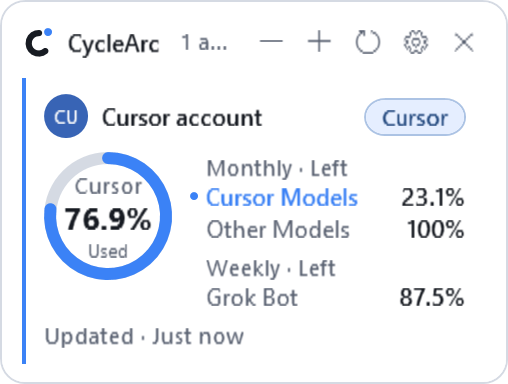
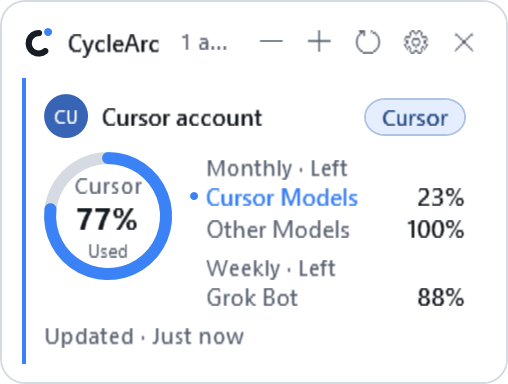
Round visible Cursor widget percentages to whole numbers

Changed region(s): [[0.1181, 0.5312, 0.2953, 0.625], [0.7972, 0.4688, 0.8858, 0.5625], [0.7677, 0.75, 0.8858, 0.8125]]

diff --git a/tests/CycleArc.Tests/CursorWidgetAccountModelTests.cs b/tests/CycleArc.Tests/CursorWidgetAccountModelTests.cs
@@ -164,6 +164,132 @@ public sealed class CursorWidgetAccountModelTests
         Assert.Same(budget, snapshot.DisplayWindow()); // Shared popup/tray policy is untouched.
     }
 
+    [Theory]
+    [InlineData(76.91, "77%", "23%", "76.91%", "23.09%")]
+    [InlineData(76.499, "76%", "24%", "76.5%", "23.5%")]
+    [InlineData(2.9, "3%", "97%", "2.9%", "97.1%")]
+    [InlineData(97.1, "97%", "3%", "97.1%", "2.9%")]
+    [InlineData(76.5, "77%", "24%", "76.5%", "23.5%")]
+    [InlineData(0.5, "1%", "100%", "0.5%", "99.5%")]
+    public void CursorWidgetPercentageTextRoundsOnlyTheVisibleStrings(
+        double usedPercent, string expectedRing, string expectedRemaining,
+        string rawRing, string rawRemaining)
+    {
+        var window = Window("cursor-auto", usedPercent, null, null, null, Now.AddDays(1));
+        var snapshot = Snapshot(window);
+        var model = WidgetAccountModel.From(Account(snapshot), selected: true, now: Now);
+        var period = Assert.Single(model.Periods);
+
+        Assert.Equal(expectedRing, model.RingValueText);
+        Assert.Equal(expectedRemaining, period.DisplayRemainingText);
+
+        // The existing presentation values remain the fractional source used by
+        // accessibility/detail surfaces, and the snapshot itself is untouched.
+        Assert.Equal(rawRing, model.Ring.CenterValueText);
+        Assert.Equal(rawRemaining, period.RemainingText);
+        Assert.Equal(usedPercent, snapshot.Windows[0].UsedPercent);
+    }
+
+    [Fact]
+    public void CursorWidgetRoundedHundredDoesNotChangeDangerOrUnderlyingPercent()
+    {
+        var window = Window("cursor-auto", 99.6, null, null, null, Now.AddDays(1));
+        var snapshot = Snapshot(window);
+        var model = WidgetAccountModel.From(Account(snapshot), selected: false, now: Now);
+        var period = Assert.Single(model.Periods);
+
+        Assert.Equal("100%", model.RingValueText);
+        Assert.Equal("99.6%", model.Ring.CenterValueText);
+        Assert.Equal(99.6, model.Ring.UsedPercent);
+        Assert.False(model.Ring.IsDangerLevel);
+        Assert.Equal("0%", period.DisplayRemainingText);
+        Assert.Equal("0.4%", period.RemainingText);
+        Assert.Equal(99.6, snapshot.Windows[0].UsedPercent);
+    }
+
+    [Fact]
+    public void CursorWidgetKeepsUnknownAmountsAndNonFinitePercentagesUnknown()
+    {
+        var unknown = WidgetAccountModel.From(
+            Account(Snapshot(Window("cursor-auto", null, null, null, null, null))),
+            selected: false, now: Now);
+        Assert.Equal("?", unknown.RingValueText);
+        Assert.Equal("?", Assert.Single(unknown.Periods).DisplayRemainingText);
+        Assert.Equal("?", unknown.Ring.CenterValueText);
+
+        var nonFinite = WidgetAccountModel.From(
+            Account(Snapshot(Window("cursor-auto", double.NaN, null, null, null, null))),
+            selected: false, now: Now);
+        Assert.Equal("?", nonFinite.RingValueText);
+        Assert.Equal("?", Assert.Single(nonFinite.Periods).DisplayRemainingText);
+        Assert.Equal("?", nonFinite.Ring.CenterValueText);
+    }
+
+    [Fact]
+    public void CursorWidgetKeepsMoneyAndUnlimitedRemainingTextUnchanged()
+    {
+        var money = Window("cursor-auto", 76.91, 50, 100, 23.09m, Now.AddDays(1));
+        var moneyModel = WidgetAccountModel.From(Account(Snapshot(money)), selected: false, now: Now);
+        var moneyPeriod = Assert.Single(moneyModel.Periods);
+        Assert.Equal("$23.09", moneyPeriod.RemainingText);
+        Assert.Equal("$23.09", moneyPeriod.DisplayRemainingText);
+
+        var unlimited = Window("cursor-auto", 76.91, null, null, null, Now.AddDays(1))
+            with { IsUnlimited = true };
+        var unlimitedModel = WidgetAccountModel.From(Account(Snapshot(unlimited)), selected: false, now: Now);
+        var unlimitedPeriod = Assert.Single(unlimitedModel.Periods);
+        Assert.Equal("Unlimited", unlimitedPeriod.RemainingText);
+        Assert.Equal("Unlimited", unlimitedPeriod.DisplayRemainingText);
+    }
+
+    [Fact]
+    public void CursorWidgetIntegerTextDoesNotRewriteTooltipOrPopupFractionalValues()
+    {
+        var window = Window("cursor-auto", 76.91, null, null, null, Now.AddDays(1));
+        var snapshot = Snapshot(window);
+        var model = WidgetAccountModel.From(Account(snapshot), selected: true, now: Now);
+
+        Assert.Equal("77%", model.RingValueText);
+        Assert.Equal("23%", Assert.Single(model.Periods).DisplayRemainingText);
+        Assert.Contains("23.09%", model.Tooltip, StringComparison.Ordinal);
+
+        var row = Assert.Single(CodexDisplayFormatting.Rows(snapshot, Now),
+            candidate => candidate.Label == CursorUsagePresentation.QuotaDisplayLabel(window.LimitId));
+        Assert.Equal("Remaining 23.09%", row.Value);
+        Assert.Equal("76.91%", model.Ring.CenterValueText);
+        Assert.Equal(76.91, snapshot.Windows[0].UsedPercent);
+    }
+
+    [Fact]
+    public void CursorDisplayPropertiesLeaveCodexAndClaudeWidgetTextUntouched()
+    {
+        var codexSnapshot = new CodexQuotaSnapshot(
+            CodexQuotaStatus.Available, "pro", Now, Now, null, null, null,
+            [new("five", 76.91, CodexWindowClassifier.FiveHourMinutes, Now.AddHours(1), CodexWindowKind.FiveHour)],
+            null)
+        {
+            Provider = UsageProviderId.Codex
+        };
+        var codexModel = WidgetAccountModel.From(
+            new CodexAccountView(new CodexAccountProfile("codex", "", "Codex")
+            {
+                Provider = UsageProviderId.Codex
+            }, codexSnapshot), selected: false, now: Now);
+        Assert.Equal(codexModel.Ring.CenterValueText, codexModel.RingValueText);
+        Assert.Equal(codexModel.Periods[0].RemainingText, codexModel.Periods[0].DisplayRemainingText);
+
+        var claudeSnapshot = codexSnapshot with { Provider = UsageProviderId.Claude };
+        var claudeModel = WidgetAccountModel.From(
+            new CodexAccountView(new CodexAccountProfile("claude", "", "Claude")
+            {
+                Provider = UsageProviderId.Claude
+            }, claudeSnapshot), selected: false, now: Now);
+        Assert.Equal("76.91%", claudeModel.Ring.CenterValueText);
+        Assert.Equal("76.91%", claudeModel.RingValueText);
+        Assert.Equal("Left 23.09%", claudeModel.Periods[0].RemainingText);
+        Assert.Equal("Left 23.09%", claudeModel.Periods[0].DisplayRemainingText);
+    }
+
     [Fact]
     public void CursorRingKeepsUnknownSummaryValuesUnknownEvenWhenAnOmittedBudgetIsKnown()
     {

diff --git a/tests/CycleArc.UiSmoke/CursorUiChecks.cs b/tests/CycleArc.UiSmoke/CursorUiChecks.cs
@@ -74,7 +74,7 @@ internal static class CursorUiChecks
                     Check(line.CadenceText.Visibility == (startsGroup ? Visibility.Visible : Visibility.Collapsed)
                         && (!startsGroup || line.CadenceText.Text == expectedCadence),
                         "Cursor widget does not render the cadence group label: " + label);
-                    Check(line.RemainingText.Text == CursorUsagePresentation.RemainingText(window),
+                    Check(line.RemainingText.Text == modelLine.DisplayRemainingText,
                         "Cursor widget changed the compact remaining value: " + label);
                     Check(string.IsNullOrEmpty(line.ResetText.Text),
                         "Cursor widget repeated reset text on every compact allowance: " + label);
@@ -124,6 +124,7 @@ internal static class CursorUiChecks
             CheckPartialSand(snapshot, now, language, theme, directory);
             CheckNamedAllowanceLayout(snapshot, language, theme, directory);
             CheckLargeMonetaryWidget(snapshot, language, theme, directory);
+            CheckWidgetPercentRounding(snapshot, language, theme, directory);
         }
         if (directory is not null)
             Console.WriteLine($"PASS: Cursor popup, widget and account controls EN/KO + Dark/Light; previews: {directory}");
@@ -427,6 +428,69 @@ internal static class CursorUiChecks
                 _ => window
             }).ToArray()
         };
+
+    private static void CheckWidgetPercentRounding(CodexQuotaSnapshot source,
+        UiLanguage language, AppTheme theme, string? directory)
+    {
+        var widget = new FloatingWidget { ShowActivated = false };
+        var flyout = new FlyoutWindow { ShowActivated = false };
+        try
+        {
+            foreach (var used in new[] { 76.91, 99.6 })
+            {
+                var snapshot = source with
+                {
+                    Windows = source.Windows.Select(window => window.LimitId switch
+                    {
+                        "cursor-auto" => window with { UsedPercent = used },
+                        "cursor-api" => window with { UsedPercent = 2.9 },
+                        _ => window
+                    }).ToArray()
+                };
+                WidgetFixture.BindOne(widget, WidgetFixture.Synthetic("cursor-rounding",
+                    UiText.T("Cursor account", "Cursor 계정"), snapshot));
+                WidgetFixture.RenderWidget(widget, null);
+                var module = WidgetFixture.Module(widget);
+                Check(module.RingValueText.Text == (used == 76.91 ? "77%" : "100%"),
+                    "Cursor widget ring did not round only its visible percent.");
+                Check(module.Periods.Select(line => line.RemainingText.Text)
+                    .SequenceEqual(used == 76.91 ? new[] { "23%", "97%", "88%" } : new[] { "0%", "97%", "88%" }),
+                    "Cursor widget remaining percentages did not round independently from raw values.");
+
+                var ringHost = (Grid)VisualTreeHelper.GetParent(VisualTreeHelper.GetParent(module.RingValueText));
+                var exactUsed = CodexDisplayFormatting.PercentText(used, UsageProviderId.Cursor);
+                var exactLeft = CodexDisplayFormatting.PercentText(100 - used, UsageProviderId.Cursor);
+                Check((ringHost.ToolTip as string ?? "").Contains(exactUsed, StringComparison.Ordinal)
+                    && (module.Periods[0].ToolTip as string ?? "").Contains(exactLeft, StringComparison.Ordinal)
+                    && (module.ToolTip as string ?? "").Contains(exactLeft, StringComparison.Ordinal),
+                    "Cursor widget tooltip lost the original decimal precision.");
+                var arc = ringHost.Children.OfType<System.Windows.Shapes.Path>().Single();
+                var segment = (ArcSegment)((PathGeometry)arc.Data).Figures[0].Segments[0];
+                var expectedArc = RingGeometry.ComputeUsedArc(used, 32, 32, 29);
+                Check(arc.Visibility == Visibility.Visible
+                    && Math.Abs(segment.Point.X - expectedArc.End.X) < 0.0001
+                    && Math.Abs(segment.Point.Y - expectedArc.End.Y) < 0.0001
+                    && ReferenceEquals(arc.Stroke, module.FindResource("AccentBrush"))
+                    && ringHost.Children.OfType<System.Windows.Shapes.Ellipse>().Last().Visibility == Visibility.Collapsed,
+                    "Rounding changed the Cursor widget arc, full-circle state or warning color.");
+
+                flyout.Bind(snapshot);
+                Arrange((FrameworkElement)flyout.Content, 440, 1000);
+                Check(((TextBlock)flyout.FindName("CodexRingValueText")).Text == exactUsed
+                    && Descendants<TextBlock>((FrameworkElement)flyout.Content)
+                        .Any(text => text.Text.Contains(exactLeft, StringComparison.Ordinal)),
+                    "Cursor detail popup lost its decimal used/remaining percentages.");
+                if (directory is not null && used == 76.91)
+                {
+                    Save(widget, Path.Combine(directory, $"cursor-rounded-widget-{LanguageSuffix(language)}-{ThemeSuffix(theme)}.png"),
+                        widget.LastLayout!.Width, null);
+                    Save(flyout, Path.Combine(directory, $"cursor-rounded-popup-{LanguageSuffix(language)}-{ThemeSuffix(theme)}.png"),
+                        440, null);
+                }
+            }
+        }
+        finally { widget.CloseWithoutActivation(); flyout.Close(); }
+    }
 
     private static string CompactRingTarget(string targetLabel) => targetLabel switch
     {

diff --git a/src/CycleArc.Core/Codex/WidgetAccountModel.cs b/src/CycleArc.Core/Codex/WidgetAccountModel.cs
@@ -17,6 +17,7 @@ public sealed record WidgetPeriodLine(
 {
     public string? CadenceLabel { get; init; }
     public string? Tooltip { get; init; }
+    public string DisplayRemainingText { get; init; } = RemainingText;
 }
 
 /// <summary>
@@ -37,6 +38,10 @@ public sealed record WidgetAccountModel(
     string Tooltip)
 {
     public string? RingTargetLabel { get; init; }
+    // Widget glyphs only: keep the shared ring's precise text, percentage and danger state.
+    public string RingValueText => CursorUsagePresentation.IsCursor(Provider)
+        ? CodexDisplayFormatting.PercentText(Ring.UsedPercent)
+        : Ring.CenterValueText;
 
     public static WidgetAccountModel From(CodexAccountView account, bool selected,
         UsagePeriodPreference preference = UsagePeriodPreference.Auto, DateTimeOffset? now = null)
@@ -148,7 +153,12 @@ public sealed record WidgetAccountModel(
             ReferenceEquals(window, ring.Window))
         {
             CadenceLabel = CursorUsagePresentation.QuotaPeriodLabel(window.LimitId),
-            Tooltip = CursorWindowTooltip(window)
+            Tooltip = CursorWindowTooltip(window),
+            // Round directly from the percentage, never from an already formatted string.
+            // Amounts, disabled/unlimited states and all tooltip text retain their own format.
+            DisplayRemainingText = window.IsEnabled != false && !window.IsUnlimited && window.RemainingAmount is null
+                ? CodexDisplayFormatting.PercentText(window.RemainingPercent)
+                : CursorUsagePresentation.RemainingText(window)
         };
     }
 

diff --git a/src/CycleArc/UI/WidgetAccountModuleView.cs b/src/CycleArc/UI/WidgetAccountModuleView.cs
@@ -168,7 +168,7 @@ public sealed class WidgetAccountModuleView : Border
     private void ApplyRing(WidgetAccountModel model)
     {
         var ring = model.Ring;
-        RingValueText.Text = ring.CenterValueText;
+        RingValueText.Text = model.RingValueText;
         // The ring fills with usage, so the value inside it is usage; remaining is on the lines.
         RingUsedLabel.Text = UiText.CodexLegendUsed;
         // Only the ring's repeated caption is shortened. The adjacent allowance rows,
@@ -298,7 +298,7 @@ public sealed class WidgetPeriodLineView : StackPanel
         CadenceText.Text = startsGroup ? line.CadenceLabel + UiText.T(" · Left", " · 남음") : "";
         CadenceText.Visibility = startsGroup ? Visibility.Visible : Visibility.Collapsed;
         ToolTip = line.Tooltip;
-        RemainingText.Text = line.RemainingText;
+        RemainingText.Text = line.DisplayRemainingText;
         RemainingText.SetResourceReference(TextBlock.ForegroundProperty, stale ? "StaleBrush" : "TextBrush");
         ResetText.Text = line.ResetText;
         ResetText.Visibility = string.IsNullOrEmpty(line.ResetText) ? Visibility.Collapsed : Visibility.Visible;

diff --git a/tests/CycleArc.UiSmoke/TrayIconChecks.cs b/tests/CycleArc.UiSmoke/TrayIconChecks.cs
@@ -318,7 +318,9 @@ internal static class TrayIconChecks
         var account = new CodexAccountView(
             new CodexAccountProfile("cursor-tray-text", "", "Cursor") { Provider = UsageProviderId.Cursor }, snapshot);
         Check(WidgetAccountModel.From(account, selected: false).Ring.CenterValueText == "76.9%",
-            "Cursor widget ring text rounded away the fractional percentage.");
+            "Cursor widget shared ring metadata lost the fractional percentage.");
+        Check(WidgetAccountModel.From(account, selected: false).RingValueText == "77%",
+            "Cursor widget visible ring text did not use whole percentages.");
     }
 
     private static void CheckEquivalent(Bitmap actual, Bitmap expected, string message)

diff --git a/src/CycleArc/UI/TrayIconRenderer.cs b/src/CycleArc/UI/TrayIconRenderer.cs
@@ -34,7 +34,7 @@ public static class TrayIconRenderer
         var palette = Palette(snapshot, exact, ring.IsDangerLevel, claudeAwaitingUsage);
         var text = exact ? CodexDisplayFormatting.PercentText(ring.UsedPercent, snapshot.Provider).TrimEnd('%') : "?";
         // Keep Cursor's tiny tray glyph to whole digits; the source value, arc and
-        // larger views retain their precision. Match Codex's whole-percent rounding.
+        // detailed views retain their precision. Match Codex's whole-percent rounding.
         if (snapshot.Provider == UsageProviderId.Cursor && ring.UsedPercent is { } cursorUsed)
             text = Math.Round(cursorUsed, MidpointRounding.AwayFromZero).ToString(CultureInfo.InvariantCulture);
 

diff --git a/tests/CycleArc.UiSmoke/CursorWidgetSummaryChecks.cs b/tests/CycleArc.UiSmoke/CursorWidgetSummaryChecks.cs
@@ -273,8 +273,8 @@ internal static class CursorWidgetSummaryChecks
             var period = model.Periods[index];
             Check(view.PeriodText.Text == period.PeriodLabel,
                 $"{name}: period {index} changed its official name.");
-            Check(view.RemainingText.Text == period.RemainingText,
-                $"{name}: period {index} changed its raw remaining value.");
+            Check(view.RemainingText.Text == period.DisplayRemainingText,
+                $"{name}: period {index} changed its widget remaining text.");
 
             var labelBounds = Bounds(view.PeriodText, content);
             var valueBounds = Bounds(view.RemainingText, content);

diff --git a/docs/images/README.md b/docs/images/README.md
@@ -16,7 +16,7 @@ reset times and credits illustrate the layout; they do not promise specific plan
 | `claude-overview-{en,ko}-{dark,light}.png` | Research selected with a Desktop history fallback: 91% five-hour / 47% weekly, unknown resets, Received and original observation time |
 | `claude-connection-{en,ko}-{dark,light}.png` | Official CLI connection choices, existing Desktop login for server checks and manual usage-page access; advanced settings collapsed |
 | `cursor-popup-{en,ko}-{dark,light}.png` | Cursor Models and Other Models monthly allowances, Grok Bot weekly allowance, named usage ring, disabled on-demand and successful update time |
-| `cursor-widget-{en,ko}-{dark,light}.png` | Cursor Models / Other Models monthly and Grok Bot weekly summary, named ring and short update age; exact times and omitted budgets remain in tooltips/detail |
+| `cursor-widget-{en,ko}-{dark,light}.png` | Cursor Models / Other Models monthly and Grok Bot weekly summary with integer used/remaining percentages, named ring and short update age; exact values/times and omitted budgets remain in tooltips/detail |
 | `cursor-widget-summary-{before,after}-{en,ko}-{dark,light}.png` | Fixed synthetic Codex / Cursor / Claude accounts in the actual WPF widget, before and after the Cursor summary change at 100% zoom |
 | `cursor-widget-compact-{before,after}-{en,ko}-{dark,light}.png` | The follow-up comparison from `f0a9964`: the same synthetic mixed accounts, with the repeated ring target moved inside the ring at unchanged width/font sizes |
 | `cursor-accounts-{en,ko}-{dark,light}.png` | Current Windows Cursor connection, reconnect/disconnect, nickname and saved-order controls |
@@ -86,6 +86,15 @@ instead of 206, with the same 232-DIP modules and original font sizes. Large mon
 and failure messages can use additional lines to preserve their complete information.
 The earlier `cursor-widget-summary-*` comparison remains historical evidence of the first
 summary change. All comparisons are actual WPF renders, with no image generation.
+
+The integer-percent follow-up changes only the visible widget strings. The summary
+fixture's ring now reads 77%, with 23% / 59% / 88% remaining, while its source and
+tooltips retain 76.9% used and 23.1% / 58.8% / 87.5% remaining. The 192-DIP layout,
+ring geometry and warning colors are unchanged. The earlier compact comparison remains
+historical. `CursorUiChecks` also exports `cursor-rounded-{widget,popup}-*` from the same
+76.91% / 2.9% / 12.5% synthetic source: the widget shows 77% used and 23% / 97% / 88%
+remaining, while the actual popup retains its decimals. Outputs for this verification are
+under `artifacts/cursor-integer-ui` and `artifacts/cursor-integer-summary`.
 
 Native tray pixel checks and contact sheets (including `cursor-tray-icons.png`):
 

diff --git a/docs/VALIDATION.md b/docs/VALIDATION.md
@@ -2,6 +2,32 @@
 
 ## Current work — Codex, Claude and Cursor
 
+- Cursor widget integer percentages (unreleased, 2026-09-21):
+  - Only visible Cursor widget strings use whole-percent rounding, directly from the
+    original numeric value with midpoint rounding away from zero. Examples: 76.91% used
+    becomes 77%; 23.09% and 97.1% remaining become 23% and 97%. The existing precise ring
+    and period strings remain available; tooltips, popup, numeric values, calculations,
+    arcs and warning thresholds are unchanged. Unknown stays `?`; money, unlimited
+    labels and Codex/Claude display formats are unchanged.
+  - Focused verification passed 57 widget-model/ring unit cases, including 11 new cases
+    for the requested examples, midpoint and double-rounding boundaries, unknown/NaN,
+    money/unlimited, other providers, popup/tooltip precision, and 99.6% displayed as
+    100% without changing its percentage or danger state. Production WPF tests verify
+    the actual fractional arc endpoint and normal color at 99.6%, the integer ring/rows,
+    and fractional ring/row/module tooltips and popup text in EN/KO and all themes.
+  - All 76 production summary captures passed in EN/KO, Dark/Light and 80/100/150% zoom,
+    including mixed/wrapped accounts, unknown/stale/auth states and monetary values.
+    The normal mixed fixture stays 720 × 192 DIP with aligned names and rings.
+    Current widget previews were visually inspected and updated; historical comparisons
+    retain their original screenshots. See `artifacts/cursor-integer-ui` and
+    `artifacts/cursor-integer-summary`; all views use synthetic accounts, no live queries.
+  - Final `dev-run.ps1 -NoLaunch` passed in 4m 45s: Release build, all 1,668 unit tests,
+    full production WPF checks (including 180 DPI/layout renders and native windows on
+    three monitors), test-flavour compile, single-file publish, published Claude receiver,
+    and isolated package apply/restore. Evidence: `artifacts/cursor-integer-final-gate.log`
+    and `artifacts/cursor-integer/TestResults`. No installed app was replaced and no
+    main merge, release or tag was created for this change.
+
 - Cursor widget compact ring follow-up (unreleased, 2026-09-21):
   - Current-source baseline is `f0a9964`, which already contains the three-allowance
     summary and account alignment. The repeated two-line caption below the Cursor ring

diff --git a/README.md b/README.md
@@ -256,7 +256,7 @@ With **Show widget** enabled and a displayable account, CycleArc checks the nati
 
 The **Usage number** tray style shows bold digits as large as the native icon slot allows, keeping their original font proportions on a transparent background. The **%** sign is omitted: **67** means **67% used**. Text is white on a dark Windows taskbar and dark on a light taskbar, independently of the app theme. The number is the selected account's percentage used for the period chosen in the detail card. **Auto** prefers a known five-hour value, then weekly. The tooltip identifies the period being shown; switching periods only changes the display of the received data. Unknown usage is **?**. Check the tooltip or detail card for status and receipt time. The optional **Usage ring** retains its status colors: blue for a valid sample, red for a valid sample at 100%, and amber for stale data or a lookup/connection problem. Without a known value, the ring is gray with **?**.
 
-Cursor's tray digits round to the nearest whole percent in both icon styles: **76.9% → 77**. The tooltip, detail popup and widget retain decimal precision; the ring arc and status colors still use the original value.
+Cursor's tray digits round to the nearest whole percent: **76.91% → 77**. The widget also rounds its visible percentages: **76.91% → 77%** used, **23.09% → 23%** remaining. The widget keeps monetary amounts unchanged. Tooltips and the detail popup retain decimal precision; the original values, calculations, ring arc and warning colors are unchanged. Unknown values stay **?**, and Codex/Claude formatting is unchanged.
 
 <details>
 <summary><strong>Settings and compact widget</strong></summary>
